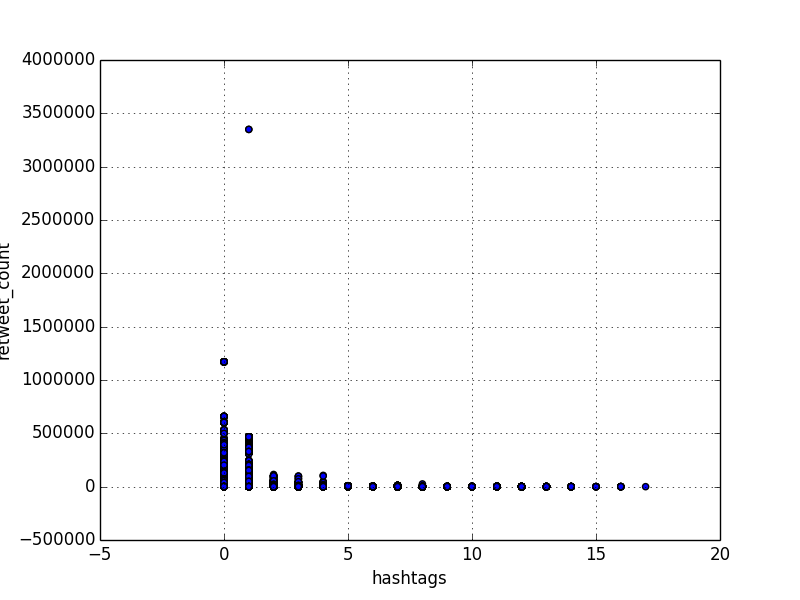
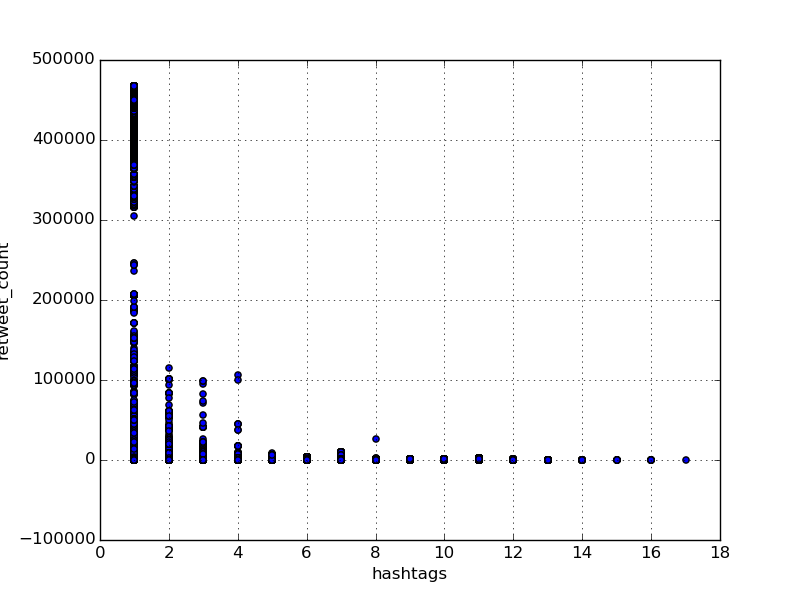
Removed a few outliers / improved model parameters

diff --git a/code/regression.py b/code/regression.py
@@ -98,7 +98,7 @@ class RegressionModel:
         # Model coefficients
         print "> Coefficients: ", list(self.clf.coef_)
 
-    def score(self, testing_set, plot=False, save=False):
+    def score(self, testing_set, showPlot=False, savePlot=False):
         """
         Compute benchmarks according to the testing dataset
         """
@@ -117,9 +117,9 @@ class RegressionModel:
         print "> Variance score: %.3f" % self.clf.score(X_test, Y_test)
 
         # Plot
-        if plot:
+        if showPlot or savePlot:
             plt.subplot(211)
-            plt.axis([0, max(Y_test), min(predictions), max(Y_test) ])
+            plt.axis([0, max(Y_test), min(predictions), max(Y_test)])
             plt.xlabel('Expected ' + DataAnalyser.VIRALITY_LABEL[0])
             plt.ylabel('Predicted ' + DataAnalyser.VIRALITY_LABEL[0])
             plt.title('Prediction score on testing data ({} tweets)'.format(len(X_test)))
@@ -127,14 +127,15 @@ class RegressionModel:
 
             plt.subplot(212)
             error = abs(Y_test - predictions)
-            plt.axis([0, max(Y_test), 0, max(error) ])
+            plt.axis([0, max(Y_test), 0, max(error)])
             plt.xlabel('Expected ' + DataAnalyser.VIRALITY_LABEL[0])
             plt.ylabel('Prediction error')
             plt.plot(Y_test, error, 'o')
 
-            if save:
+            if savePlot:
                 plt.savefig(DataAnalyser.PLOT_DIR + RegressionModel.ERROR_PLOT_FILENAME, format='png')
-            plt.show()
+            if showPlot:
+                plt.show()
 
 
     def predict(self, features):
@@ -172,10 +173,10 @@ class RegressionModel:
 
 
 if __name__ == "__main__":
-    training_set, testing_set = RegressionModel.load_datasets(balance=False)
+    training_set, testing_set = RegressionModel.load_datasets(balance=True, viral_threshold=50000)
     model = RegressionModel()
     if not model.load():
         model.train(training_set, normalize=True)
         # model.dump()
-    model.score(testing_set, plot=True, save=False)
+    model.score(testing_set, showPlot=True, savePlot=False)
     # print "Prediction samples: ", model.predict([testing_set[0][:-1], testing_set[1][:-1]])

diff --git a/code/featureExtractor.py b/code/featureExtractor.py
@@ -53,8 +53,12 @@ class FeatureExtractor:
         else:
             features.append(0)
 
+        retweet_count = tweet['retweet_count']
+        if retweet_count > 3000000:
+            return
+
         virality = []
-        virality.append(max(tweet['retweet_count'], 0))
+        virality.append(max(retweet_count, 0))
         virality.append(max(tweet['favorite_count'], 0))
         virality.append(max(tweet['retweet_count'], 0) + max(tweet['favorite_count'], 0))
 
@@ -145,7 +149,7 @@ class FeatureExtractor:
 
 if __name__ == "__main__":
     # ids, features, virality = FeatureExtractor.loadFromDB(tweets_id=[592958600357793793L, 592673811239149568L])
-    # ids, features, virality = FeatureExtractor.loadFromDB(limit=10000)
+    # ids, features, virality = FeatureExtractor.loadFromDB(limit=0)
 
     # Load features from DB and dump to disk if required
     ids, features, virality = FeatureExtractor.load(force=True)

diff --git a/code/dataAnalysis.py b/code/dataAnalysis.py
@@ -15,7 +15,7 @@ class DataAnalyser:
         Return the datasets containing the tweets featured followed by the retweet count
         """
         # Import data
-        _, features, virality = FeatureExtractor.load(force=True, keepTweetWithoutHashtags=True)
+        _, features, virality = FeatureExtractor.load(force=True, keepTweetWithoutHashtags=False)
         print "Building datasets..."
         # Concatenate the arrays into one along the second axis
         data = np.c_[features, np.array(virality)[:, 0]]

diff --git a/code/viralityPrediction.py b/code/viralityPrediction.py
@@ -50,7 +50,8 @@ class ViralityPrediction:
 
 
 if __name__ == "__main__":
-    vp = ViralityPrediction(normalize=True, balance=False, score=True, dump_model=False)
+    vp = ViralityPrediction(normalize=True, balance=True, tweet_threshold=50000,
+        score=True, dump_model=False)
     hashtagIndex = HashtagIndex()
 
     virality = {}
